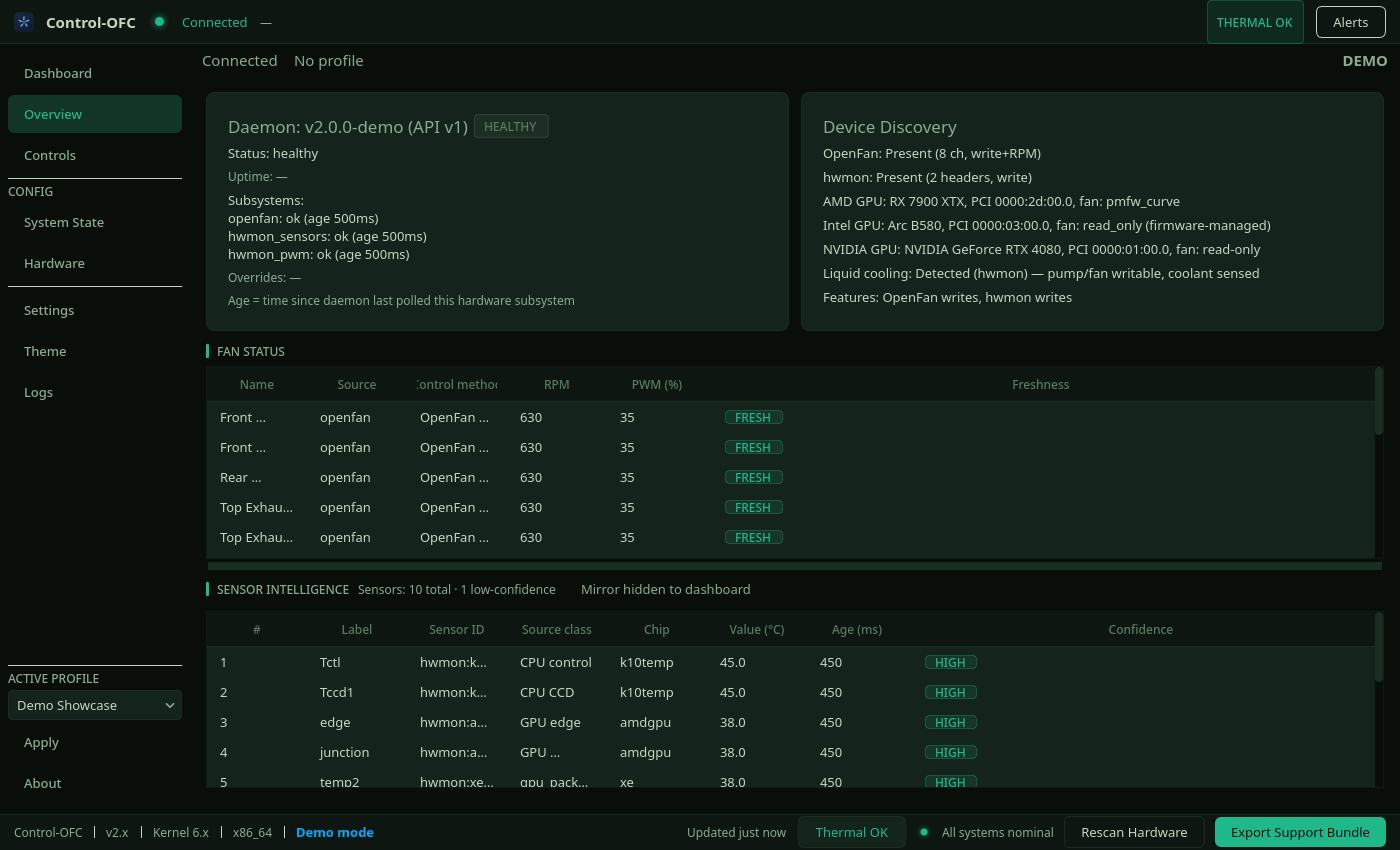
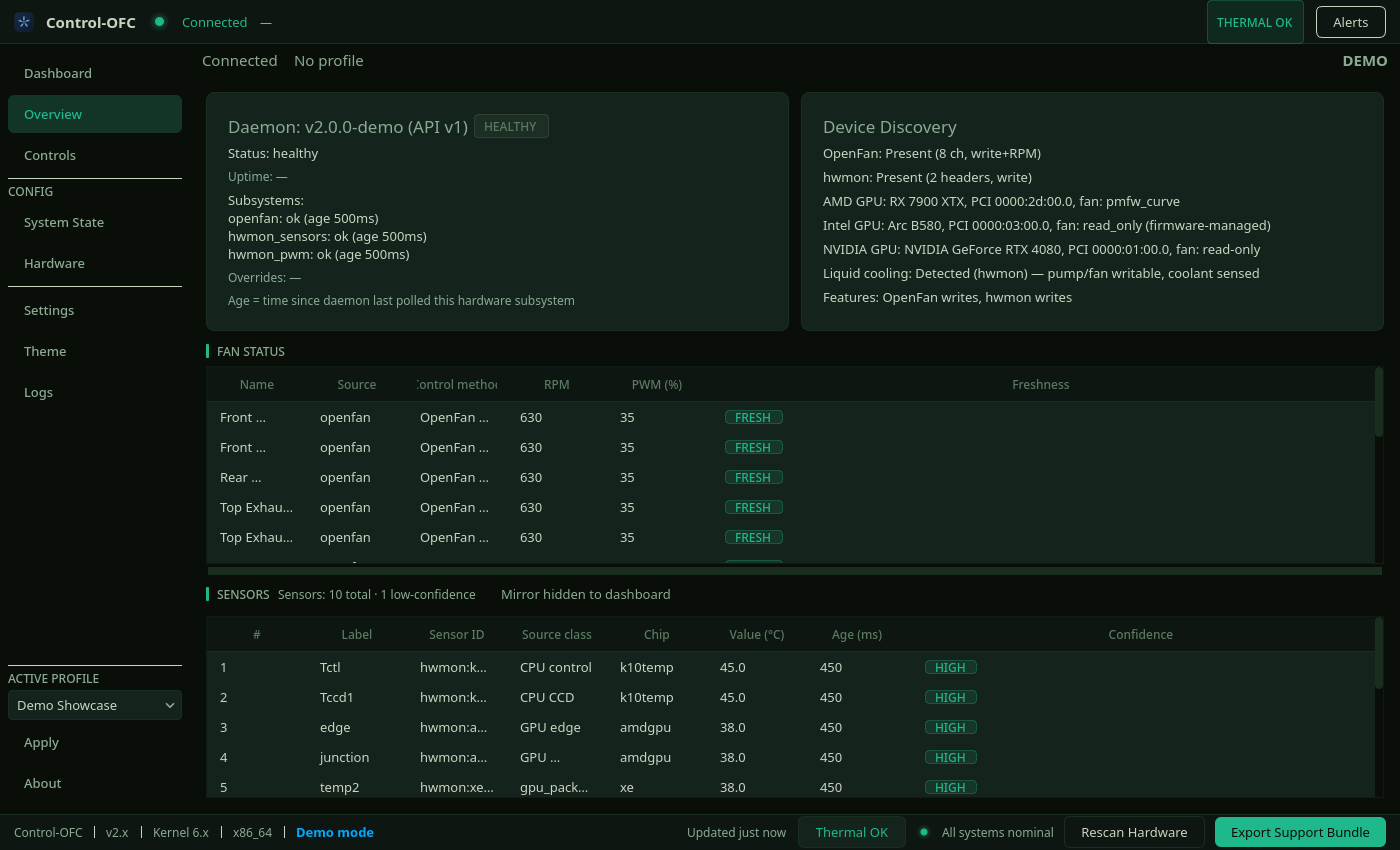
release: v2.48.1 — Overview/System State window fill, Sensors rename, README line, screenshot recapture
Version metadata, CHANGELOG section heading, PKGBUILD pkgver and the README
release line. Screenshots recaptured because src/control_ofc/ui/ changed:
03_overview.png is the only real diff (the renamed SENSORS section and the
filled sensors band). 04_system_state.png did not move — at the 1400x850
capture geometry that page's content already exceeds the viewport, so there is
no surplus to spend, which is what DEC-284 predicted. 01_dashboard.png's
recapture differed only in the documented 25px strip at the chart's right edge
(bound-boxed: x=1302..1326), the known bimodal variant, so it was left at its
committed bytes rather than committing noise.

Daemon pairing is unchanged at >= v2.11.0: this release is a GUI-only layout
fix and needs no new daemon capability.

diff --git a/README.md b/README.md
@@ -1,6 +1,6 @@
 # Control-OFC GUI
 
-**Latest release:** v2.48.0 — 2026-08-26. Pairs with `control-ofc-daemon` ≥ v2.11.0 (v2.16.0 or newer for the Settings ▸ Daemon Configuration card, v2.17.0 for the Dashboard's fan-control-engine health banner, v2.18.0 for Rescan Hardware to also look for an OpenFan controller, v2.21.0 for the Controls page's "Not controlled" badge, v2.22.0 for the live output figure on each Controls card and the Dashboard's unresolved-control warning; all stand down gracefully on older daemons). See [`CHANGELOG.md`](CHANGELOG.md) for the full history.
+**Latest release:** v2.48.1 — 2026-08-26. Pairs with `control-ofc-daemon` ≥ v2.11.0 (v2.16.0 or newer for the Settings ▸ Daemon Configuration card, v2.17.0 for the Dashboard's fan-control-engine health banner, v2.18.0 for Rescan Hardware to also look for an OpenFan controller, v2.21.0 for the Controls page's "Not controlled" badge, v2.22.0 for the live output figure on each Controls card and the Dashboard's unresolved-control warning; all stand down gracefully on older daemons). See [`CHANGELOG.md`](CHANGELOG.md) for the full history.
 
 Desktop fan control interface for Linux. Communicates with the [`control-ofc-daemon`](https://github.com/Plan-B-Development/control-ofc-daemon) service to monitor temperatures, manage fan speeds, and apply custom fan curves.
 

diff --git a/CHANGELOG.md b/CHANGELOG.md
@@ -1,6 +1,6 @@
 # Changelog
 
-## [Unreleased]
+## [2.48.1] — 2026-08-26
 
 ### Fixed
 - **The Overview and System State pages now use the height of your window.** Both
